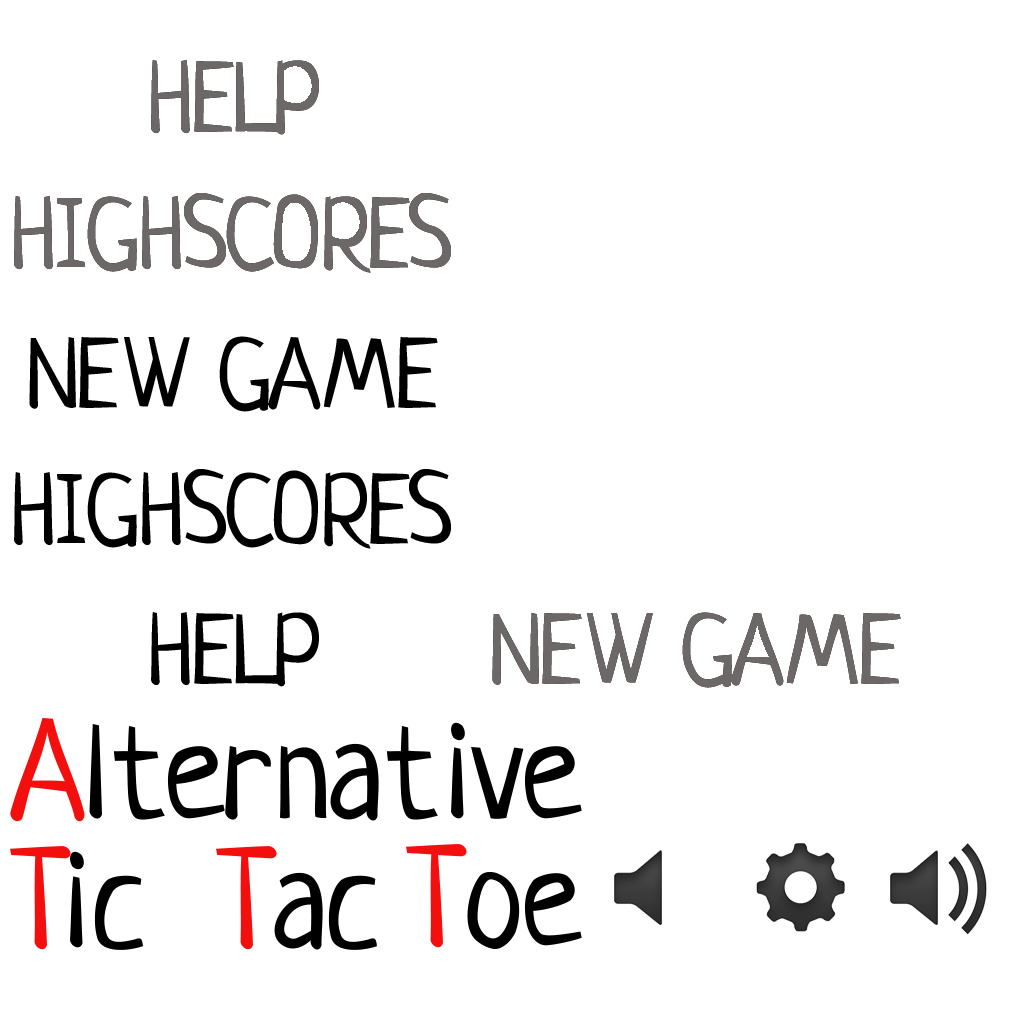
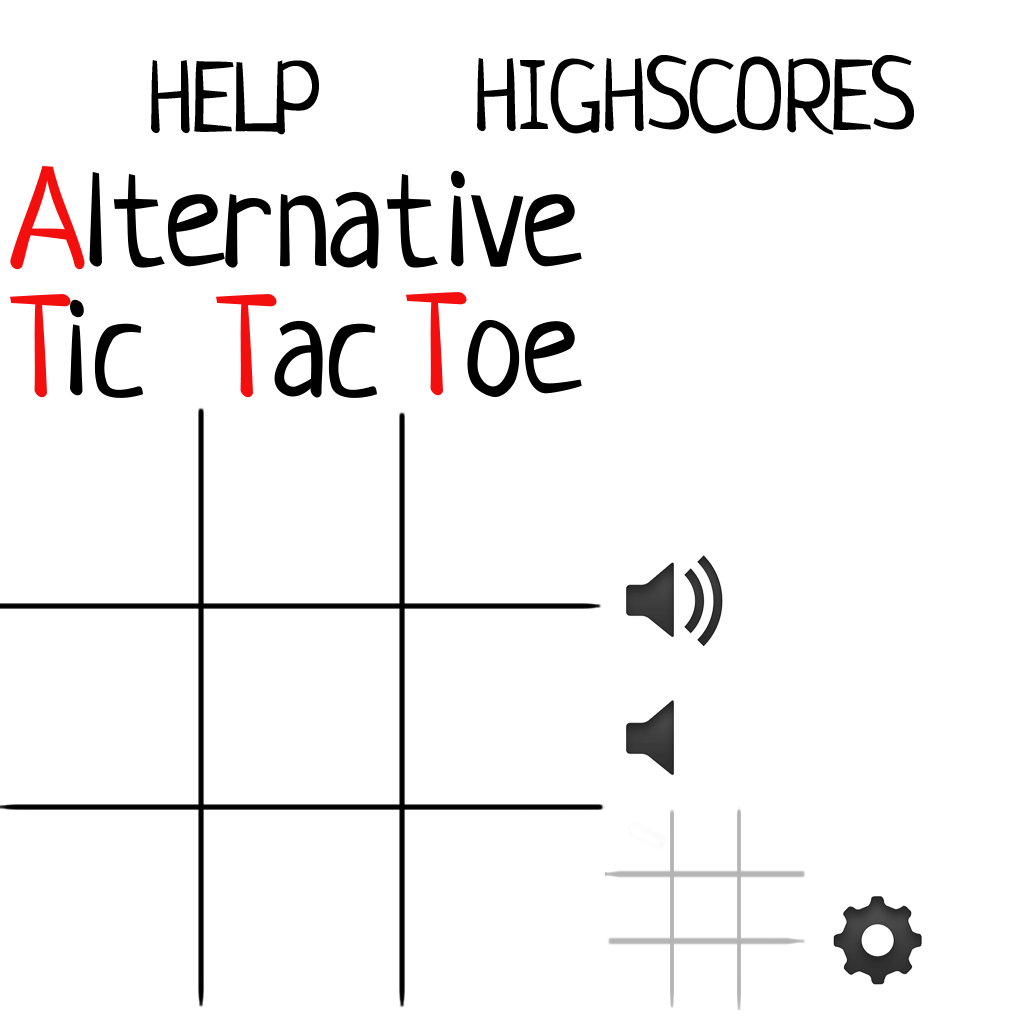
add new FIELDSSSSS

diff --git a/src/ru/petrsu/attt/view/View.java b/src/ru/petrsu/attt/view/View.java
@@ -1,6 +1,10 @@
 package ru.petrsu.attt.view;
 
+import com.badlogic.gdx.Gdx;
+import com.badlogic.gdx.graphics.g2d.Sprite;
 import com.badlogic.gdx.graphics.g2d.SpriteBatch;
+import com.badlogic.gdx.math.Vector2;
+import ru.petrsu.attt.Assets;
 
 /**
  * Created with IntelliJ IDEA.
@@ -9,7 +13,7 @@ import com.badlogic.gdx.graphics.g2d.SpriteBatch;
  * Time: 2:19 PM
  * To change this template use File | Settings | File Templates.
  */
-public class View {
+public abstract class View {
     public enum Position {
         LEFT,
         RIGHT,
@@ -23,25 +27,35 @@ public class View {
     public float height;
     public float x = 0;
     public float y = 0;
-    private int screenWidth;
-    private int screenHeight;
+    private int screenWidth = Gdx.graphics.getWidth();
+    private int screenHeight = Gdx.graphics.getHeight();
 
-    public View(int screenWidth, int screenHeight) {
-        this.screenWidth = screenWidth;
-        this.screenHeight = screenHeight;
+    public View(float width, float height) {
+        setSize(width, height);
     }
 
     /**
      * calculate sizes from 1280*720
-     * @param oldWidth width in 1280*720
-     * @param oldHeight height in 1280*720
+     * @param width width in 1280*720
+     * @param height height in 1280*720
      */
-    protected void calculateSizes(float oldWidth, float oldHeight) {
-        width = screenWidth / 720.0f * oldWidth;
-        height = width * (oldHeight / oldWidth);
+    protected void setSize(float width, float height) {
+        this.width = screenWidth / 720.0f * width;
+        this.height = this.width * (height / width);
     }
 
-    public void setPosition(int x, int y) {
+    protected void setAbsoluteSize(float width, float height) {
+        this.width = width;
+        this.height = height;
+    }
+
+    public static void calculateSpriteSizes(Sprite sprite) {
+        float width = Gdx.graphics.getWidth() / 720.0f * sprite.getWidth();
+        float height = width * (sprite.getHeight() / sprite.getWidth());
+        sprite.setSize(width, height);
+    }
+
+    public void setPosition(float x, float y) {
         setX(x);
         setY(y);
     }
@@ -76,7 +90,5 @@ public class View {
         this.y =  y;
     }
 
-    public void draw(SpriteBatch spriteBatch){
-
-    }
+    public abstract void draw(SpriteBatch spriteBatch);
 }

diff --git a/src/ru/petrsu/attt/view/Field.java b/src/ru/petrsu/attt/view/Field.java
@@ -1,18 +1,52 @@
 package ru.petrsu.attt.view;
 
+import com.badlogic.gdx.graphics.g2d.Sprite;
 import com.badlogic.gdx.graphics.g2d.SpriteBatch;
 import ru.petrsu.attt.Assets;
 import ru.petrsu.attt.model.FieldModel;
 
+import java.util.ArrayList;
+import java.util.List;
+
 public class Field extends View {
     FieldModel model;
-    public Field(FieldModel model) {
-        super(Assets.screenWidth, Assets.screenHeight);
+    Sprite field;
+    Sprite smallField;
+    List<SmallField> smallFields;
+    public Field(FieldModel model, Sprite fieldSprite) {
+        super(fieldSprite.getWidth(), fieldSprite.getHeight());
         this.model = model;
+        this.field = fieldSprite;
+        setSize(field.getWidth(), field.getHeight());
+        initSmallFields();
+    }
+
+    private void initSmallFields() {
+        smallField = new Sprite(Assets.small_feild);
+        calculateSpriteSizes(smallField);
+        smallFields = new ArrayList<SmallField>();
+        for (int i = 0; i < 9; i++) {
+                smallFields.add(new SmallField(model.smallFieldModels.get(i), smallField));
+        }
     }
 
     @Override
     public void draw(SpriteBatch spriteBatch) {
-        super.draw(spriteBatch);
+        updateField();
+        for (int i = 0; i < 9; i++) {
+            smallFields.get(i).draw(spriteBatch);
+        }
+        field.draw(spriteBatch);
+    }
+
+    private void updateField() {
+        field.setPosition(x, y);
+        field.setSize(width, height);
+        for (int i = 0; i < 9; i++) {
+            SmallField smallField = smallFields.get(i);
+            smallField.setPosition(x + (width / 3) * (i / 3),
+                    y + (height / 3) * (i % 3));
+            smallField.setAbsoluteSize(width / 3, height / 3);
+        }
     }
 }

diff --git a/src/ru/petrsu/attt/Assets.java b/src/ru/petrsu/attt/Assets.java
@@ -1,18 +1,11 @@
 package ru.petrsu.attt;
 
-import android.preference.Preference;
-import android.util.Log;
 import com.badlogic.gdx.Gdx;
-import com.badlogic.gdx.Input;
-import com.badlogic.gdx.Preferences;
 import com.badlogic.gdx.audio.Sound;
-import com.badlogic.gdx.graphics.OrthographicCamera;
 import com.badlogic.gdx.graphics.Texture;
 import com.badlogic.gdx.graphics.g2d.BitmapFont;
 import com.badlogic.gdx.graphics.g2d.TextureAtlas;
 import com.badlogic.gdx.graphics.g2d.TextureRegion;
-import com.badlogic.gdx.math.Rectangle;
-import com.badlogic.gdx.math.Vector2;
 
 /**
  * Created with IntelliJ IDEA.
@@ -38,6 +31,8 @@ public class Assets {
     public static TextureRegion highcoresPressed;
     public static TextureRegion startPressed;
     public static TextureRegion helpPressed;
+    public static TextureRegion big_field;
+    public static TextureRegion small_feild;
 
     //fonts
     public static BitmapFont textFont;
@@ -75,6 +70,8 @@ public class Assets {
         startPressed = atlas.findRegion("start_pressed");
         highcoresPressed = atlas.findRegion("highscores_pressed");
         helpPressed = atlas.findRegion("help_pressed");
+        big_field = atlas.findRegion("big_field");
+        small_feild = atlas.findRegion("small_field");
     }
 
     private static void loadFonts() {

diff --git a/src/ru/petrsu/attt/screens/GameScreen.java b/src/ru/petrsu/attt/screens/GameScreen.java
@@ -8,9 +8,11 @@ import com.badlogic.gdx.graphics.g2d.Sprite;
 import com.badlogic.gdx.graphics.g2d.SpriteBatch;
 import ru.petrsu.attt.Assets;
 import ru.petrsu.attt.input.ButtonsInputProcessor;
+import ru.petrsu.attt.model.FieldModel;
 import ru.petrsu.attt.view.Button;
 import ru.petrsu.attt.view.Field;
 import ru.petrsu.attt.view.Picture;
+import ru.petrsu.attt.view.View;
 
 /**
  * Created with IntelliJ IDEA.
@@ -41,6 +43,7 @@ public class GameScreen implements Screen, ButtonsInputProcessor.OnClickListener
         spriteBatch.begin();
         background.draw(spriteBatch);
         backButton.draw(spriteBatch);
+        field.draw(spriteBatch);
         spriteBatch.end();
     }
 
@@ -52,6 +55,10 @@ public class GameScreen implements Screen, ButtonsInputProcessor.OnClickListener
     public void show() {
         background = new Sprite(Assets.background);
         background.setSize(Gdx.graphics.getWidth(), Gdx.graphics.getHeight());
+
+        field = new Field(new FieldModel(), new Sprite(Assets.big_field));
+        field.setPosition(View.Position.CENTER_VERTICAL);
+        field.setPosition(View.Position.CENTER_HORIZONTAL);
 
         backButton = new Button(Assets.settingsButton);
         backButton.setPosition(Picture.Position.BOTTOM);

diff --git a/src/ru/petrsu/attt/view/SmallField.java b/src/ru/petrsu/attt/view/SmallField.java
@@ -1,0 +1,32 @@
+package ru.petrsu.attt.view;
+
+import com.badlogic.gdx.graphics.g2d.Sprite;
+import com.badlogic.gdx.graphics.g2d.SpriteBatch;
+import ru.petrsu.attt.model.SmallFieldModel;
+
+/**
+ * Created with IntelliJ IDEA.
+ * User: lexer
+ * Date: 8/25/13
+ * Time: 8:48 PM
+ * To change this template use File | Settings | File Templates.
+ */
+public class SmallField extends View{
+    SmallFieldModel model;
+    Sprite smallField;
+    public SmallField(SmallFieldModel model, Sprite smallField) {
+        super(smallField.getWidth(), smallField.getHeight());
+        this.smallField = smallField;
+    }
+
+    @Override
+    public void draw(SpriteBatch spriteBatch) {
+        updateSmallField();
+        smallField.draw(spriteBatch);
+    }
+
+    private void updateSmallField() {
+        smallField.setPosition(x, y);
+        smallField.setSize(width, height);
+    }
+}

diff --git a/src/ru/petrsu/attt/model/FieldModel.java b/src/ru/petrsu/attt/model/FieldModel.java
@@ -1,5 +1,8 @@
 package ru.petrsu.attt.model;
 
+import java.util.ArrayList;
+import java.util.List;
+
 /**
  * Created with IntelliJ IDEA.
  * User: lexer
@@ -8,4 +11,12 @@ package ru.petrsu.attt.model;
  * To change this template use File | Settings | File Templates.
  */
 public class FieldModel {
+    public List<SmallFieldModel> smallFieldModels;
+
+    public FieldModel() {
+        smallFieldModels = new ArrayList<SmallFieldModel>();
+        for (int i = 0; i < 9; i++) {
+            smallFieldModels.add(new SmallFieldModel());
+        }
+    }
 }

diff --git a/src/ru/petrsu/attt/view/Picture.java b/src/ru/petrsu/attt/view/Picture.java
@@ -18,7 +18,7 @@ public class Picture extends View{
     public Picture(TextureRegion texture) {
         super(Assets.screenWidth, Assets.screenHeight);
         sprite = new Sprite(texture);
-        calculateSizes(sprite.getWidth(), sprite.getHeight());
+        setSize(sprite.getWidth(), sprite.getHeight());
     }
 
     @Override

diff --git a/src/ru/petrsu/attt/model/SmallFieldModel.java b/src/ru/petrsu/attt/model/SmallFieldModel.java
@@ -1,0 +1,11 @@
+package ru.petrsu.attt.model;
+
+/**
+ * Created with IntelliJ IDEA.
+ * User: lexer
+ * Date: 8/25/13
+ * Time: 8:50 PM
+ * To change this template use File | Settings | File Templates.
+ */
+public class SmallFieldModel {
+}
